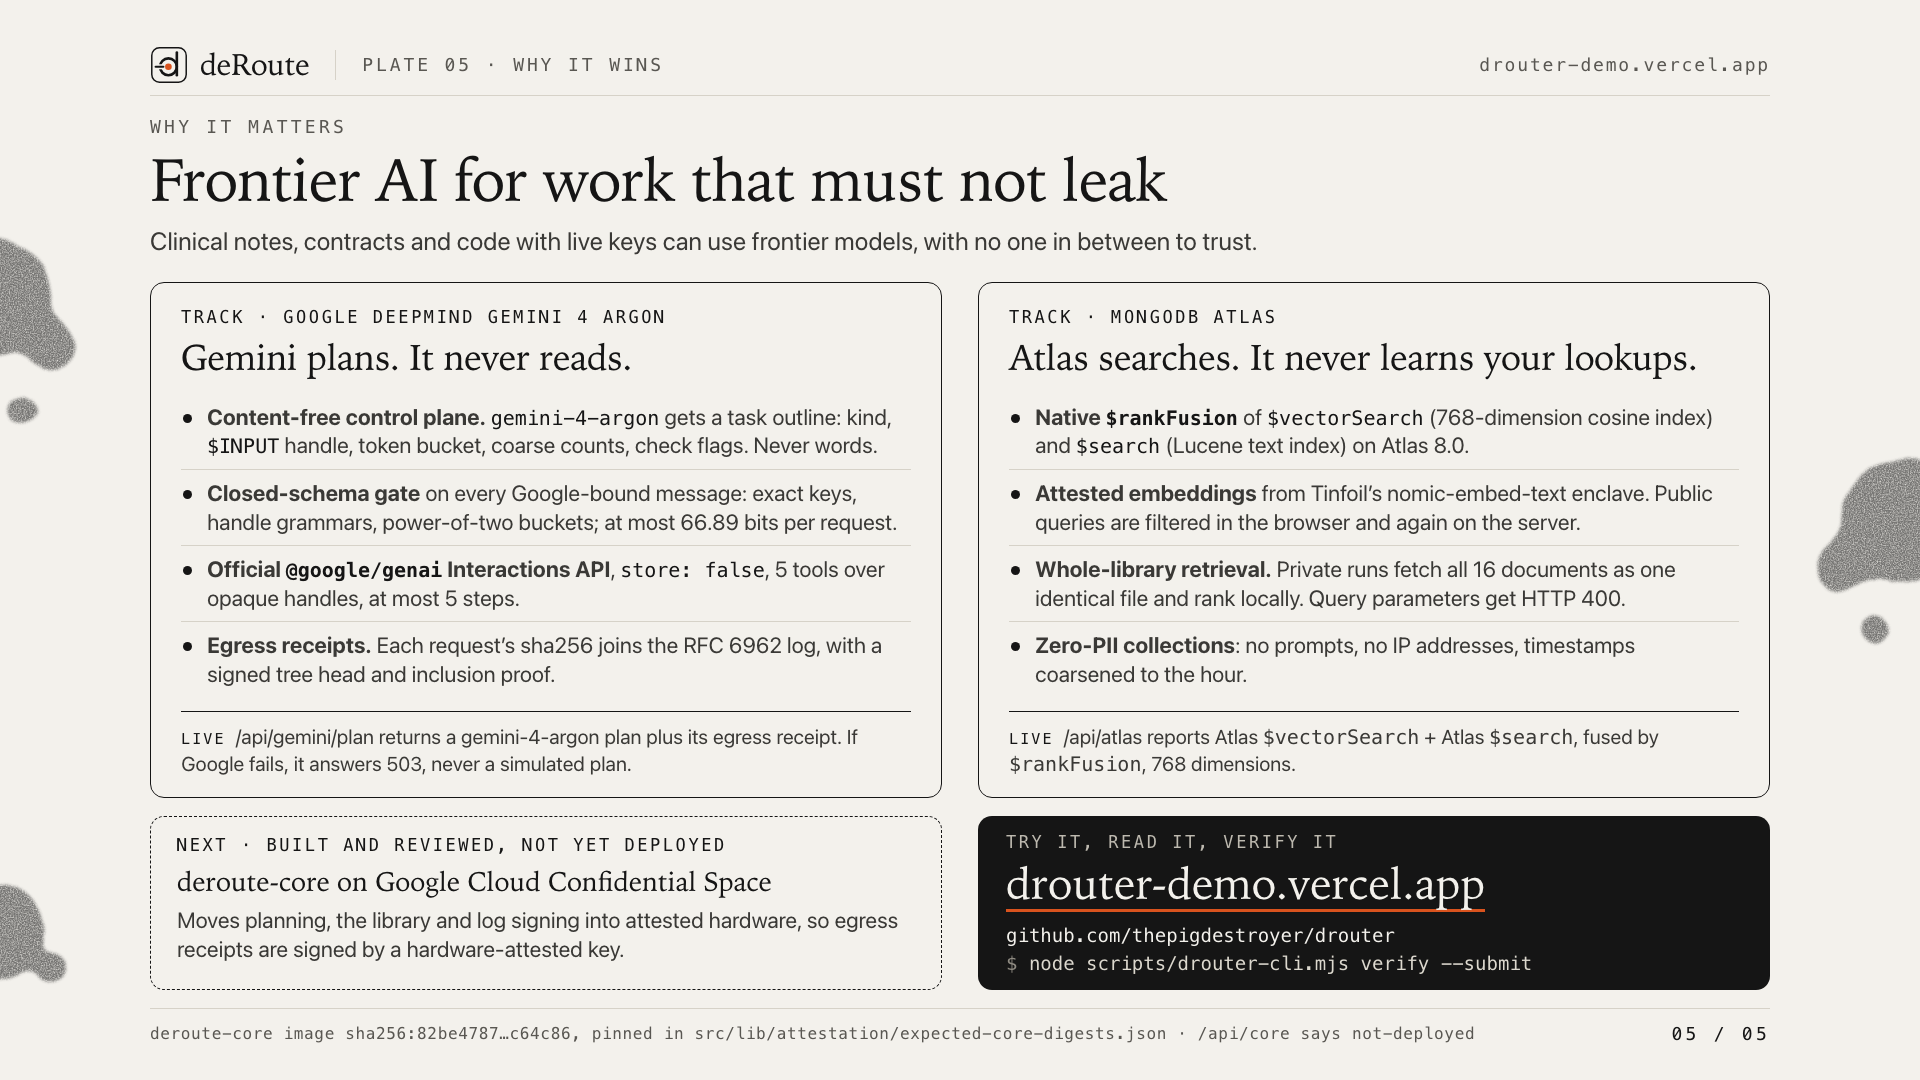
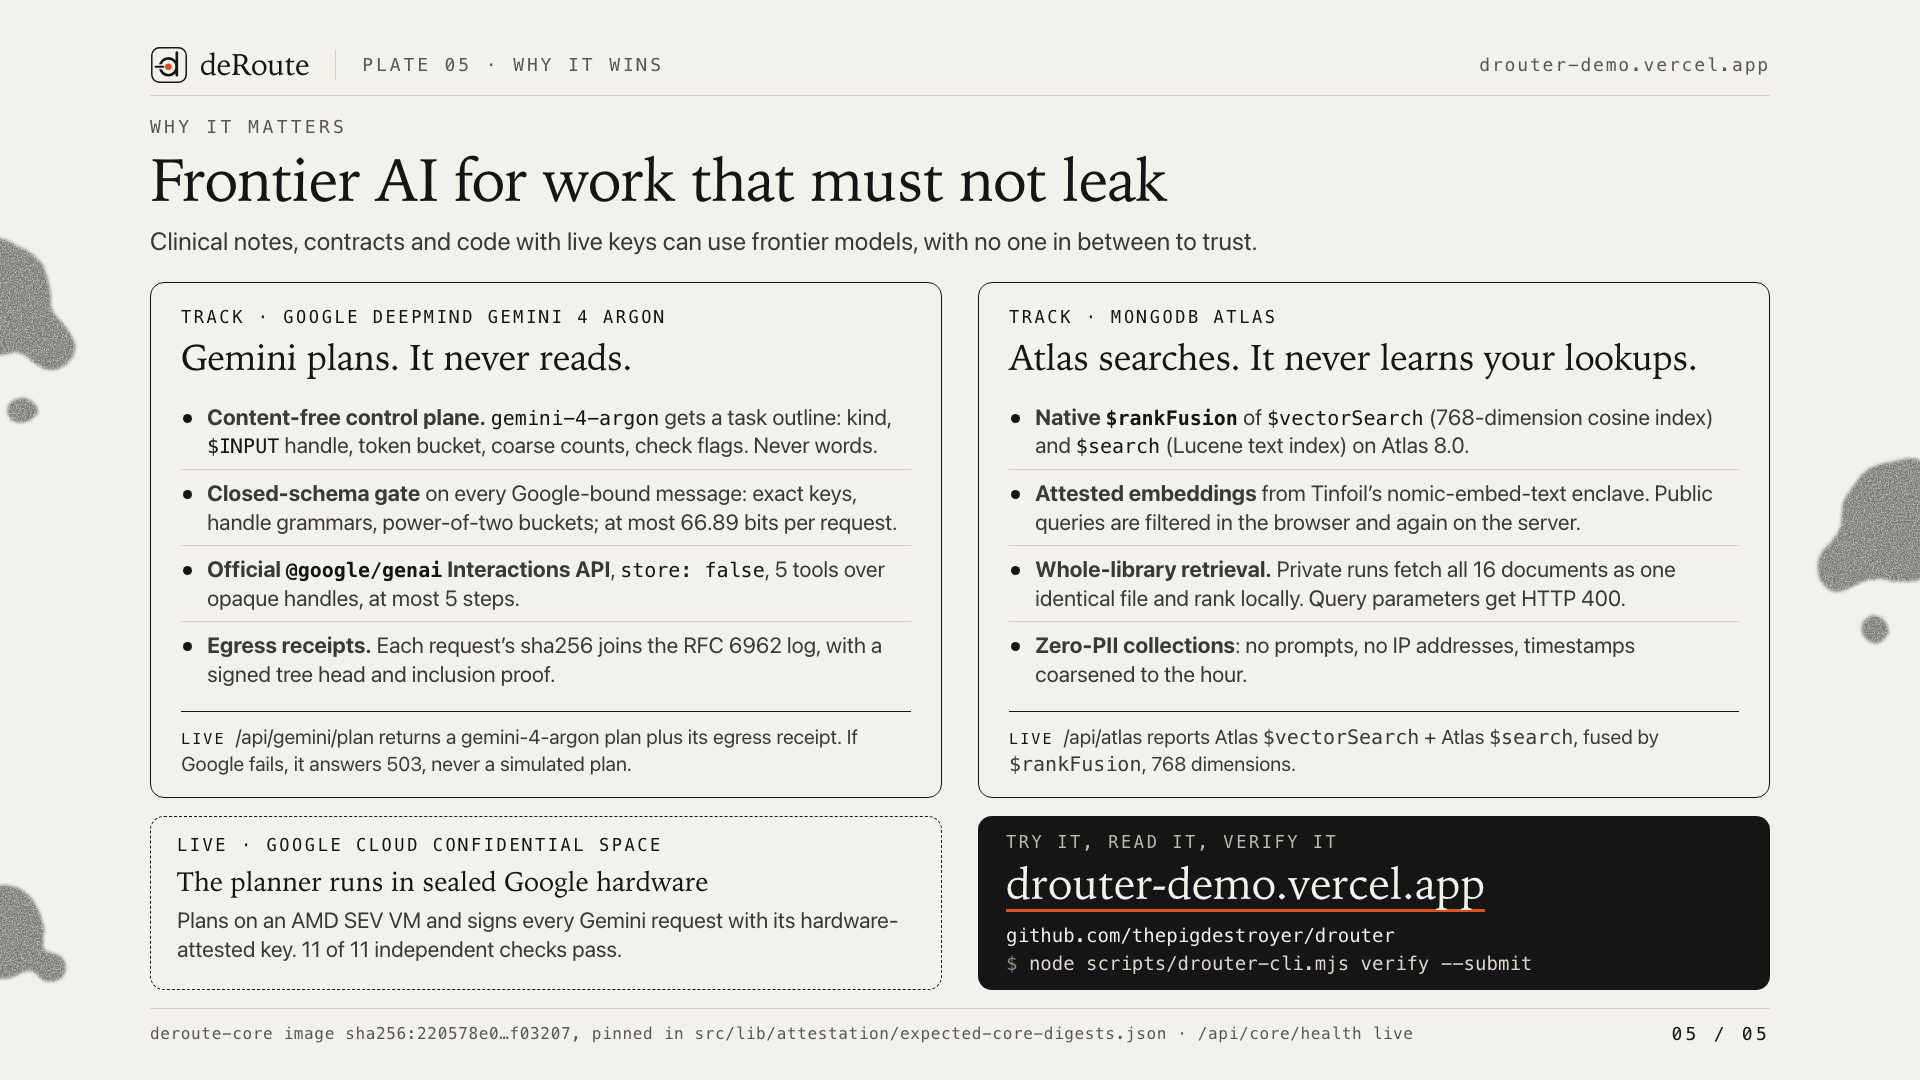
deroute-core live on Google Cloud Confidential Space (AMD SEV, 11/11 checks, planner requests signed by its attested key): deck, answers and deploy docs updated; slides published at deroute-deck.vercel.app

Changed region(s): [[0.0938, 0.7639, 0.4688, 0.8861], [0.6875, 0.9472, 0.75, 0.9778], [0.2188, 0.9472, 0.2812, 0.9778]]

diff --git a/pitch/deck/index.html b/pitch/deck/index.html
@@ -599,9 +599,9 @@ code,.code{font-family:var(--mono)}
 </div>
 
 <div class="next rv" style="--d:5">
-  <div class="label" style="color:var(--ink)">Next · built and reviewed, not yet deployed</div>
-  <h4>deroute-core on Google Cloud Confidential Space</h4>
-  <p>Moves planning, the library and log signing into attested hardware, so egress receipts are signed by a hardware-attested key.</p>
+  <div class="label" style="color:var(--ink)">Live · Google Cloud Confidential Space</div>
+  <h4>The planner runs in sealed Google hardware</h4>
+  <p>Plans on an AMD SEV VM and signs every Gemini request with its hardware-attested key. 11 of 11 independent checks pass.</p>
 </div>
 <div class="cta rv" style="--d:6">
   <div class="label">Try it, read it, verify it</div>
@@ -610,7 +610,7 @@ code,.code{font-family:var(--mono)}
   <div class="row"><span><span class="p">$ </span>node scripts/drouter-cli.mjs verify --submit</span></div>
 </div>
 
-<footer class="foot"><span class="src">deroute-core image sha256:220578e0…f03207, pinned in src/lib/attestation/expected-core-digests.json · /api/core says not-deployed</span><span class="num">05 / 05</span></footer>
+<footer class="foot"><span class="src">deroute-core image sha256:220578e0…f03207, pinned in src/lib/attestation/expected-core-digests.json · /api/core/health live</span><span class="num">05 / 05</span></footer>
 </section>
 </main>
 <nav class="ctrl" aria-label="Slide navigation"><button class="prev" aria-label="Previous slide">&#8249;</button><span class="count">1 / 5</span><button class="next" aria-label="Next slide">&#8250;</button></nav>

diff --git a/pitch/SUBMISSION-ANSWERS.md b/pitch/SUBMISSION-ANSWERS.md
@@ -17,7 +17,7 @@ Private AI you can verify: your words are filtered on your device and only a ver
 - Live app: https://drouter-demo.vercel.app
 - GitHub (public): https://github.com/thepigdestroyer/drouter
 - Architecture in pictures: https://github.com/thepigdestroyer/drouter/blob/main/docs/ARCHITECTURE.md
-- Pitch deck: `pitch/deck/index.html` in the repo (https://github.com/thepigdestroyer/drouter/tree/main/pitch/deck)
+- Pitch deck (slides): https://deroute-deck.vercel.app (source: `pitch/deck/index.html` in the repo)
 - Demo video: [paste your video link]
 
 ## Short description (about 100 words)
@@ -46,7 +46,7 @@ What changes for them: they type normally; names, dates, numbers and secrets are
 - **Verification loop with pass/fail signals:** every Google-bound request must match an exact schema and pass a content-free check before it is sent (maximum about 67 bits per request); Gemini's returned plan is validated against the same closed schemas before use; the seven attestation checks must pass before the sealed computer runs the task (real failover to another model if they fail); the restore of hidden details is verified on the device; the sha256 of the exact bytes Google received is appended to the transparency log and the browser verifies the inclusion proof.
 - **gemma-4-31b** (open model) is available on the Agent page running inside a Tinfoil sealed computer.
 - **Human control:** the agent never writes to an external system on its own. Recording a public receipt on Circle Arc waits for the user's explicit approval, and only after a successful run; payments always need the user.
-- **Why Argon:** it plans long, tool-using workflows well from very little information, which is exactly what a planner that is never allowed to see the content needs. Next step (built, reviewed, not yet deployed): run the planner inside Google Cloud Confidential Space so Google's own attestation proves the planner code.
+- **Why Argon:** it plans long, tool-using workflows well from very little information, which is exactly what a planner that is never allowed to see the content needs. The planner runs inside Google Cloud Confidential Space (AMD SEV, production image, debugging disabled): Google's own attestation proves the exact planner image (sha256:220578e0…f03207), and every Google-bound request is signed by that sealed computer's key and logged. Anyone can check it with `node scripts/gcp/verify-core.mjs` (11 checks).
 
 ## MongoDB Atlas: features used (required by the MongoDB bounty)
 - **Atlas Vector Search** (`$vectorSearch`, 768-dimension embeddings, index `drouter_vector_index`).
@@ -61,7 +61,7 @@ What changes for them: they type normally; names, dates, numbers and secrets are
 - Human approval: before recording anything on chain, before any payment, and the user can see exactly what Google received.
 
 ## Tech stack
-Next.js 16 on Vercel, TypeScript, Tinfoil (SecureClient, EHBP/HPKE, attested enclaves), Google Gemini 4 Argon (`@google/genai` Interactions API), MongoDB Atlas 8.0 (Vector Search, Atlas Search, `$rankFusion`), Circle Arc testnet (registry, receipts, USDC), WebAuthn passkeys, RSA blind signatures, RFC 6962 Merkle log, GitHub Actions (hourly monitor), Vitest (51 suites, 493 tests).
+Next.js 16 on Vercel, TypeScript, Tinfoil (SecureClient, EHBP/HPKE, attested enclaves), Google Gemini 4 Argon (`@google/genai` Interactions API), Google Cloud Confidential Space (AMD SEV), MongoDB Atlas 8.0 (Vector Search, Atlas Search, `$rankFusion`), Circle Arc testnet (registry, receipts, USDC), WebAuthn passkeys, RSA blind signatures, RFC 6962 Merkle log, GitHub Actions (hourly monitor), Vitest (51 suites, 493 tests).
 
 ## Built during the hackathon
 First commit 24 October 2026 14:41 BST; every commit since is in the public repo history.
@@ -70,7 +70,7 @@ First commit 24 October 2026 14:41 BST; every commit since is in the public repo
 Proving privacy instead of promising it: a generic "does this look like content" filter kept being bypassed in review, so we replaced it with exact message schemas and measured the worst-case capacity. Making the browser verify hardware proofs, Arc records and log inclusion proofs itself. Keeping placeholders stable across a whole conversation so hidden details always come back correctly.
 
 ## What's next
-Deploy the planner inside Google Cloud Confidential Space; more independent operators in the Arc registry; a signed, reproducible release of the local proxy for coding tools, with automatic updates when a new filter version is published on Arc.
+More independent operators in the Arc registry; a signed, reproducible release of the local proxy for coding tools, with automatic updates when a new filter version is published on Arc.
 
 ## Team
 [Names and roles]

diff --git a/docs/DEPLOY.md b/docs/DEPLOY.md
@@ -153,9 +153,9 @@ node scripts/drouter-cli.mjs verify --submit --upstream https://drouter-demo.ver
 
 ---
 
-## 5. `deroute-core` on Google Cloud Confidential Space (Built & Reviewed, Not Yet Deployed)
+## 5. `deroute-core` on Google Cloud Confidential Space (Live)
 
-The `deroute-core` enclave workload (`core/`, image `ghcr.io/thepigdestroyer/deroute-core@sha256:220578e0d103bfb6969cffde67e332cfaac278a4affc9eba7e84c96253f03207` in `src/lib/attestation/expected-core-digests.json`) and its operational scripts in `scripts/gcp/` are built and reviewed, but **not deployed to a live Google Cloud VM yet** until billing is confirmed.
+The `deroute-core` enclave workload (`core/`, image `ghcr.io/thepigdestroyer/deroute-core@sha256:220578e0d103bfb6969cffde67e332cfaac278a4affc9eba7e84c96253f03207` in `src/lib/attestation/expected-core-digests.json`) and its operational scripts in `scripts/gcp/` are deployed on an AMD SEV Confidential Space VM (`n2d-standard-2`, us-central1-a). Production sets `CORE_HOST` and `CORE_IMAGE_DIGESTS`, so `/api/core/*` and `POST /api/gemini/plan` route through the attested VM; `node scripts/gcp/verify-core.mjs` passes all 11 checks.
 
 Once ready to deploy:
 
